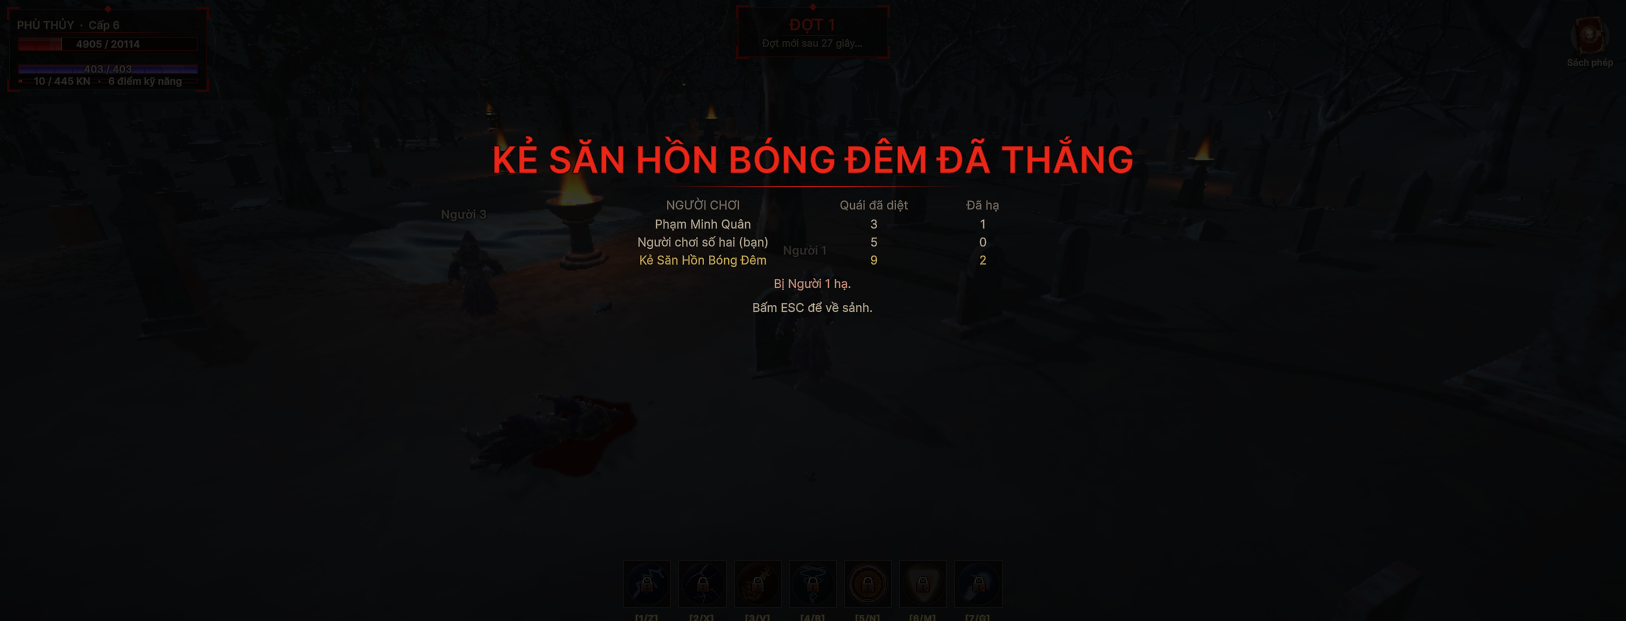
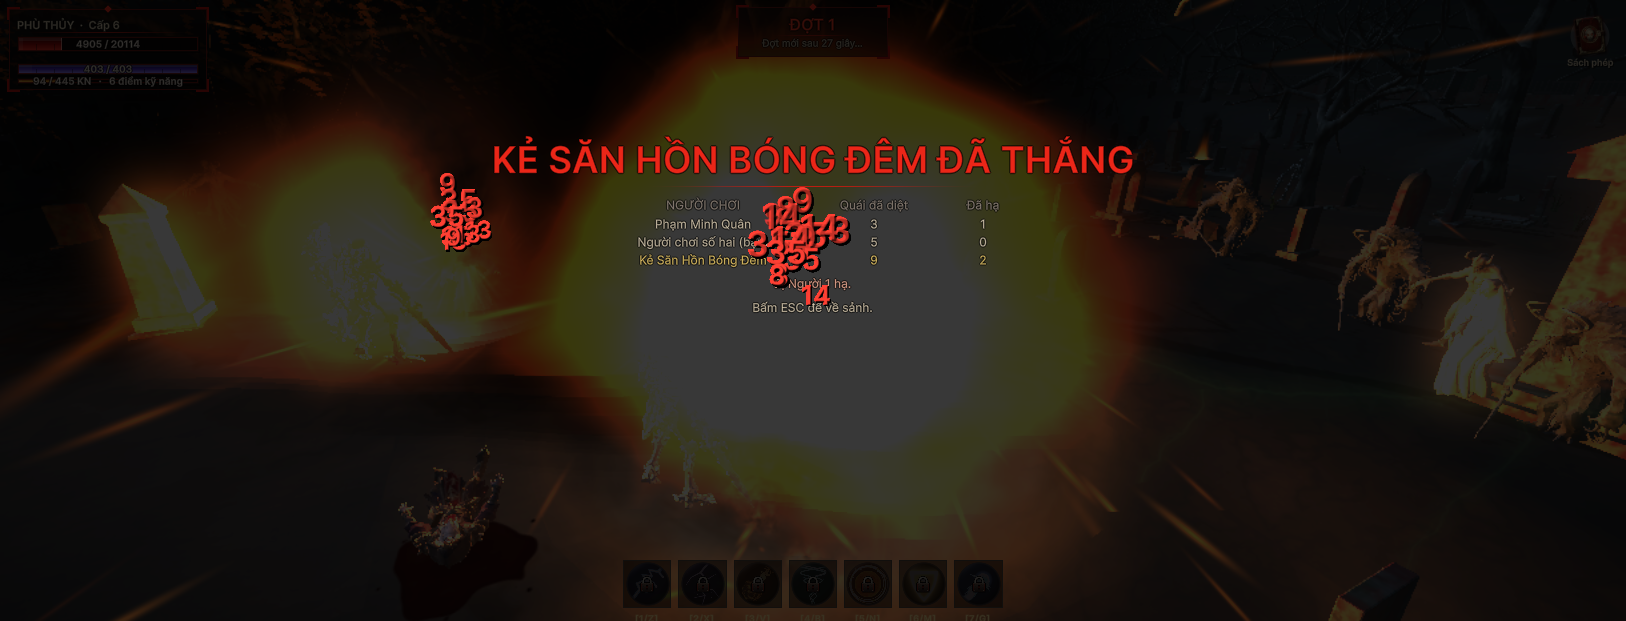
Menu 45, 55: tu sinh mot dot quai that khi chua co quai (dot dau cho 30 giay lam hai phep do quai hong)

diff --git a/Assets/Editor/ThuKetTran.cs b/Assets/Editor/ThuKetTran.cs
@@ -235,6 +235,7 @@ public static class ThuKetTran
              "chu phong khong sinh du ban sao");
 
         // Quai chet vi don cua minh -> phai cong vao bang diem cua ghe 0
+        yield return DamBaoCoQuai();
         Damageable quaiThu = null;
         foreach (var d in Object.FindObjectsByType<Damageable>(FindObjectsSortMode.None))
             if (d != null && !d.isPlayer && !d.IsDead && d.GetComponent<NhanDangQuai>() != null) { quaiThu = d; break; }
@@ -478,5 +479,22 @@ public static class ThuKetTran
         EditorSettings.enterPlayModeOptions = truocOpt;
         EditorApplication.isPlaying = false;
         EditorApplication.update += TraLaiCanh;
+    }
+
+    /// <summary>
+    /// DOT DAU CHO 30 GIAY (GameDirector.GiayChoDotDau, 13/09/2026) nen luc phep thu do chua co con quai nao - phep do quai
+    /// hong tu do (28/09/2026 moi phat hien). Chua co thi sinh MOT DOT THAT bang chinh duong cua game (danh so cho mang,
+    /// dang ky bang diem), khong dung quai gia.
+    /// </summary>
+    static IEnumerator DamBaoCoQuai()
+    {
+        int co = Object.FindObjectsByType<NhanDangQuai>().Length;
+        if (co == 0 && GameDirector.Instance != null)
+        {
+            GameDirector.Instance.SinhDotQuanhNguoi();
+            for (int i = 0; i < 3; i++) yield return null;
+        }
+        Ghi("   quai trong canh: truoc " + co + " con, sau " + Object.FindObjectsByType<NhanDangQuai>().Length
+            + " con" + (co == 0 ? " (vua sinh mot dot that - dot dau cho 30 giay)" : ""));
     }
 }

diff --git a/Assets/Editor/ThuBonNguoi.cs b/Assets/Editor/ThuBonNguoi.cs
@@ -205,6 +205,7 @@ public static class ThuBonNguoi
         Kiem(kenhNhip.Count == 1 && kenhNhip.Contains(3), "tra loi nhip sai kenh");
 
         // 2e. Dan quai cua chu phong toi ca ba nguoi khach
+        yield return DamBaoCoQuai();
         daGui.Clear();
         yield return new WaitForSeconds(0.25f);
         var kenhQuai = new HashSet<int>();
@@ -347,5 +348,22 @@ public static class ThuBonNguoi
 
         if (!string.IsNullOrEmpty(canhCu) && canhCu != Canh)
             EditorApplication.update += TraLaiCanh;
+    }
+
+    /// <summary>
+    /// DOT DAU CHO 30 GIAY (GameDirector.GiayChoDotDau, 13/09/2026) nen luc phep thu do chua co con quai nao - phep do quai
+    /// hong tu do (28/09/2026 moi phat hien). Chua co thi sinh MOT DOT THAT bang chinh duong cua game (danh so cho mang,
+    /// dang ky bang diem), khong dung quai gia.
+    /// </summary>
+    static IEnumerator DamBaoCoQuai()
+    {
+        int co = Object.FindObjectsByType<NhanDangQuai>().Length;
+        if (co == 0 && GameDirector.Instance != null)
+        {
+            GameDirector.Instance.SinhDotQuanhNguoi();
+            for (int i = 0; i < 3; i++) yield return null;
+        }
+        Ghi("   quai trong canh: truoc " + co + " con, sau " + Object.FindObjectsByType<NhanDangQuai>().Length
+            + " con" + (co == 0 ? " (vua sinh mot dot that - dot dau cho 30 giay)" : ""));
     }
 }

diff --git a/CLAUDE.md b/CLAUDE.md
@@ -415,8 +415,8 @@ Bảng đầy đủ nằm ở mục "Phần 4" trong `HUONG-DAN.md`.
   trong `Damageable.TakeDamage`; thêm kỹ năng mới thì dùng hàm này, đừng viết `d == boQua`. `Damageable.doi` gán cho nhân vật mình và
   bản sao (`KhoiDongTranMang.GanDoi`). Xuất phát `ChoXuatPhat.ChoChoDoi` (đồng đội 2,5–6 m, hai đội ≥ 55 m). Gói kết trận 15 byte, byte
   cuối = mã đội thắng (0 = Đơn — mặc định struct). Tên trên đầu màu đội + "ĐỘI A/B"; HUD dòng thứ ba "ĐỘI A (bạn) 2/3 còn sống ·
-  …"; bảng điểm xếp theo đội. Menu 92, 92b kiểm (0 lỗi). ⚠ Menu 45 mục 2e và menu 55 mục B1b hỏng SẴN từ khi đợt đầu chờ 30 s
-  (đo lúc chưa có quái) — không phải lỗi mạng.
+  …"; bảng điểm xếp theo đội. Menu 92, 92b kiểm (0 lỗi). Menu 45 mục 2e và menu 55 mục B1b từng hỏng vì đợt đầu chờ 30 s (đo lúc
+  chưa có quái) — nay tự sinh một đợt thật (`DamBaoCoQuai`), 0 lỗi. Phép thử mới đo quái cũng phải làm thế.
 - ⚠ **ĐẶC TÍNH QUÁI** (người dùng 28/09/2026, đặt trong `EnemyFactory.ApDacTinh` lúc sinh — KHÔNG trong prefab): **Quỷ cây** mỗi tia
   15% choáng người chơi 1 s (`EnemyAI.xacSuatChoangTia`, qua `GiatSet.PhongCuaQuai`); **Quỷ dữ** thiên thạch 15% đánh ngã 1 s
   (`xacSuatNgaThienThach`); **Bộ xương** tốc **×1,8225** (1,35 × 1,35 — người dùng xin thêm +35% CỘNG DỒN), **mỗi đòn 35 ở ĐỢT 1**

diff --git a/HUONG-DAN.md b/HUONG-DAN.md
@@ -8693,6 +8693,10 @@ Hỏi lại, người dùng chọn:
   - Menu 55 còn 1 lỗi "không tìm thấy quái để thử" và menu 45 mục 2e "đàn quái không tới khách". Cả hai có sẵn từ khi đợt đầu
     chờ 30 giây: phép thử đo ngay lúc vào trận, lúc ấy chưa có con quái nào (không có quái thì chủ phòng không gửi gói quái).
     Báo cáo menu 55 đã commit cũng ghi đúng lỗi này.
+  - **Đã sửa (cùng ngày, người dùng xin):** hai phép thử gọi `DamBaoCoQuai()` — chưa có quái thì sinh MỘT ĐỢT THẬT bằng
+    `GameDirector.SinhDotQuanhNguoi()` (đánh số cho mạng, đăng ký bảng điểm y như trong trận), báo số quái trước / sau.
+    Menu 45: trước 0, sau 52 con, đàn quái tới kênh 1, 2, 3 — **0 lỗi**. Menu 55: giết một Quỷ dữ thật, bảng điểm "ghế 0 diệt
+    1 quái" — **0 lỗi**.
 
 Ảnh: `PlayTestShots/che_do_doi_ten_hud.png`, `che_do_doi_ket_tran_thang.png`, `che_do_doi_ket_tran_thua.png`, `sanh_doi_sanh.png`,
 `sanh_doi_phong_doi.png`, `sanh_doi_phong_don.png`.
